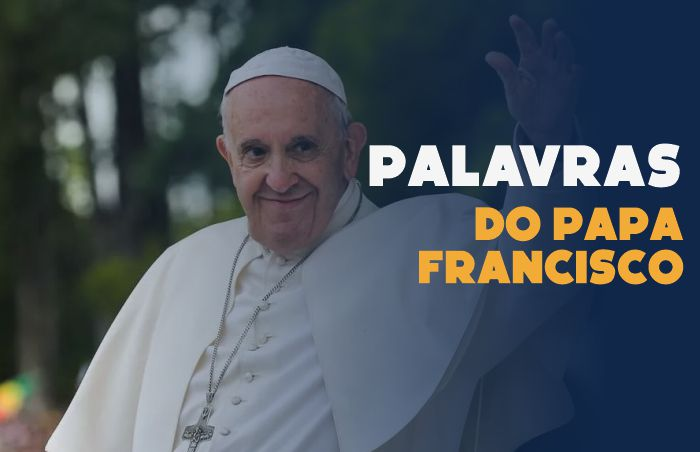
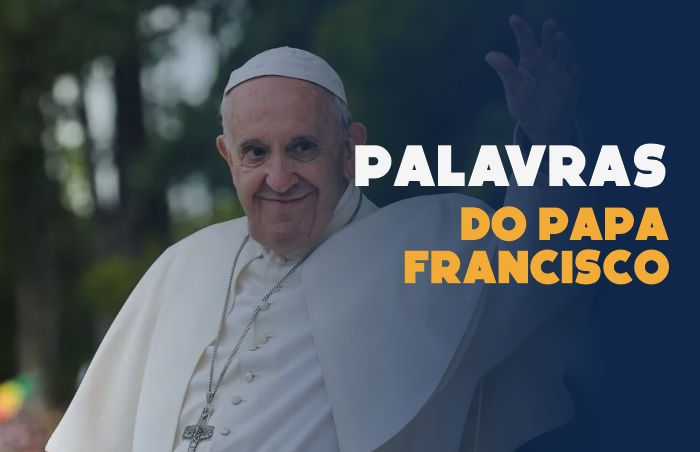
ajustando capas

Changed region(s): [[0.51, 0.3097, 0.99, 0.6504]]

diff --git a/src/components/CoverSecondary/CoverSecondary.tsx b/src/components/CoverSecondary/CoverSecondary.tsx
@@ -23,25 +23,25 @@ const CoverSecondary = () => {
       className="flex flex-wrap justify-between max-w-[90rem] w-auto"
     >
       <div
-        className={`relative overflow-hidden rounded-lg cursor-pointer ${styles.cover}`}
+        className={`relative overflow-hidden rounded-lg cursor-pointer lg:h-36 ${styles.cover}`}
       >
         <Image
           src={cover01}
           alt={title01}
-          className="transition-transform duration-300 transform scale-100 hover:scale-105"
+          className="w-full  object-center transition-transform duration-300 bg-cover transform scale-100 hover:scale-105"
         />
       </div>
       <div
-        className={`relative overflow-hidden rounded-lg cursor-pointer ${styles.cover}`}
+        className={`relative overflow-hidden rounded-lg cursor-pointer lg:h-36 ${styles.cover}`}
       >
         <Image
           src={cover02}
           alt={title02}
-          className="transition-transform duration-300 transform scale-100 hover:scale-105"
+          className="absolute w-full -bottom-10 transition-transform duration-300 transform scale-100 hover:scale-105"
         />
       </div>
       <div
-        className={`relative overflow-hidden rounded-lg cursor-pointer ${styles.cover}`}
+        className={`relative w-[400] overflow-hidden rounded-lg cursor-pointer lg:h-36 ${styles.cover}`}
       >
         <Image
           src={cover03}

diff --git a/src/components/CoverSecondary/CoverSecondary.module.css b/src/components/CoverSecondary/CoverSecondary.module.css
@@ -1,4 +1,4 @@
 .cover {
-  width: 32.8%;
+  width: 32.6%;
 
 }
